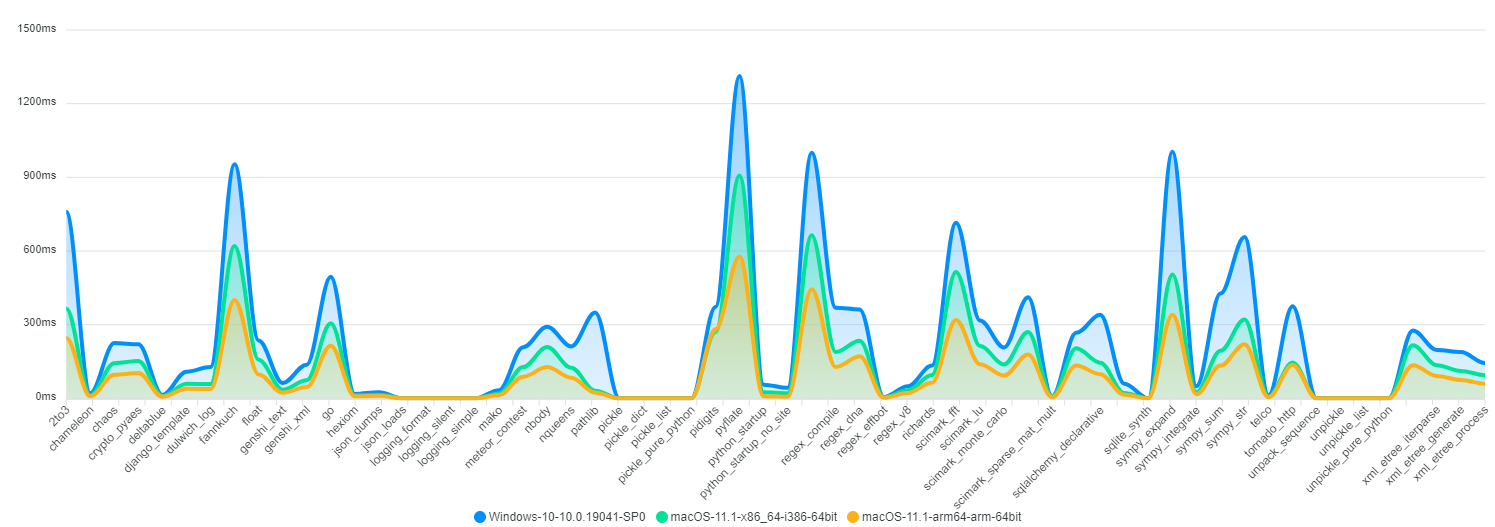
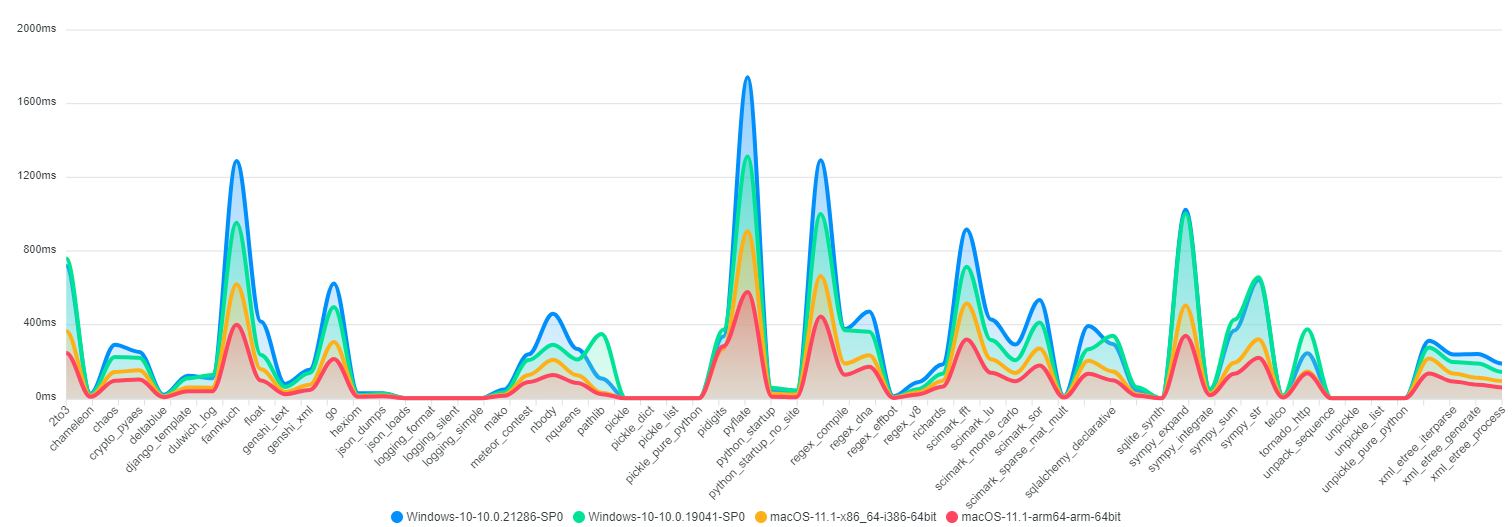
update readme

diff --git a/index.html b/index.html
@@ -18,15 +18,37 @@
         <sub>Rosetta2 vs ARM</sub>
       </h1>
       <div id='chart' class='w-100'></div>
-      <div class='row'>
-        <div class='col-md-6'>
-          <img class='img w-100' src='neofetch_win.png'>
-        </div>
-        <div class='col-md-6'>
-          <img class='img w-100' src='neofetch_mac.png'>
-          <a title="Python Benchmark on M1 ( Rosetta2 vs ARM )" href='https://github.com/diewland/py-rosetta2-vs-arm'>GitHub</a>
-        </div>
-      </div>
+      <table class="table table-striped">
+        <thead>
+          <tr>
+            <th scope="col">OS</th>
+            <th scope="col">Benchmark Architecture</th>
+            <th scope="col">Host</th>
+          </tr>
+        </thead>
+        <tbody>
+          <tr>
+            <td scope="row">Windows-10-10.0.21286-SP0 ( Blue )</td>
+            <td>64-bit x86 via x86 Emulator on Win10 ARM via Parallels ( Tech Preview )</td>
+            <td>MacBookAir M1</td>
+          </tr>
+          <tr>
+            <td scope="row">Windows-10-10.0.19041-SP0 ( Green )</td>
+            <td>64-bit x86</td>
+            <td>Acer Nitro AN515-52</td>
+          </tr>
+          <tr>
+            <td scope="row">macOS-11.1-x86_64-i386-64bit ( Orange )</td>
+            <td>64-bit x86 via Rosetta2</td>
+            <td>MacBookAir M1</td>
+          </tr>
+          <tr>
+            <td scope="row">macOS-11.1-arm64-arm-64bit ( Red )</td>
+            <td>64-bit ARM</td>
+            <td>MacBookAir M1</td>
+          </tr>
+        </tbody>
+      </table>
     </div>
 
     <!-- Bootstrap Bundle with Popper -->

diff --git a/render_graph.js b/render_graph.js
@@ -1,4 +1,4 @@
-let data_files = [ 'nitro5.json', 'x86.json', 'arm.json' ];
+let data_files = [ 'amd64.json', 'nitro5.json', 'x86.json', 'arm.json' ];
 let iterable = data_files.map(f => fetch(f).then(r => r.json()).then(data => data));
 
 function build_compare_data (raw) {
